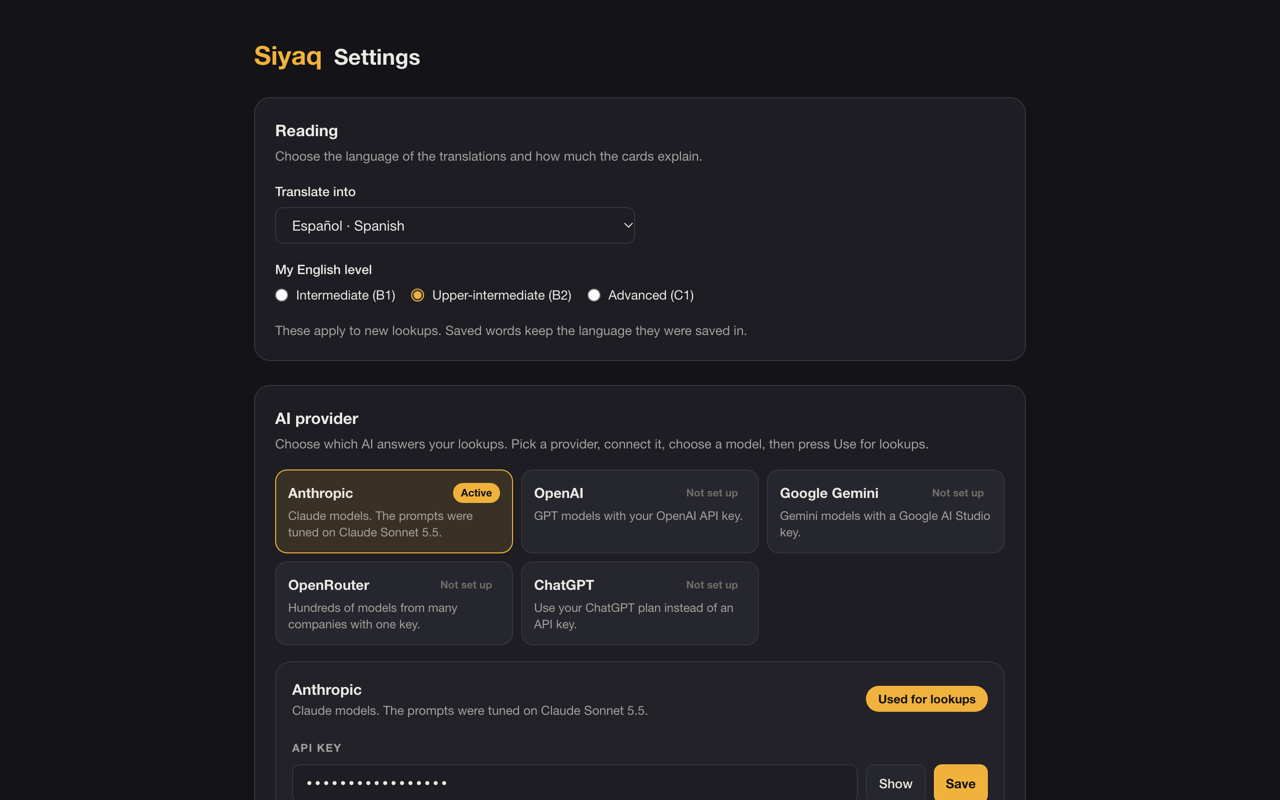
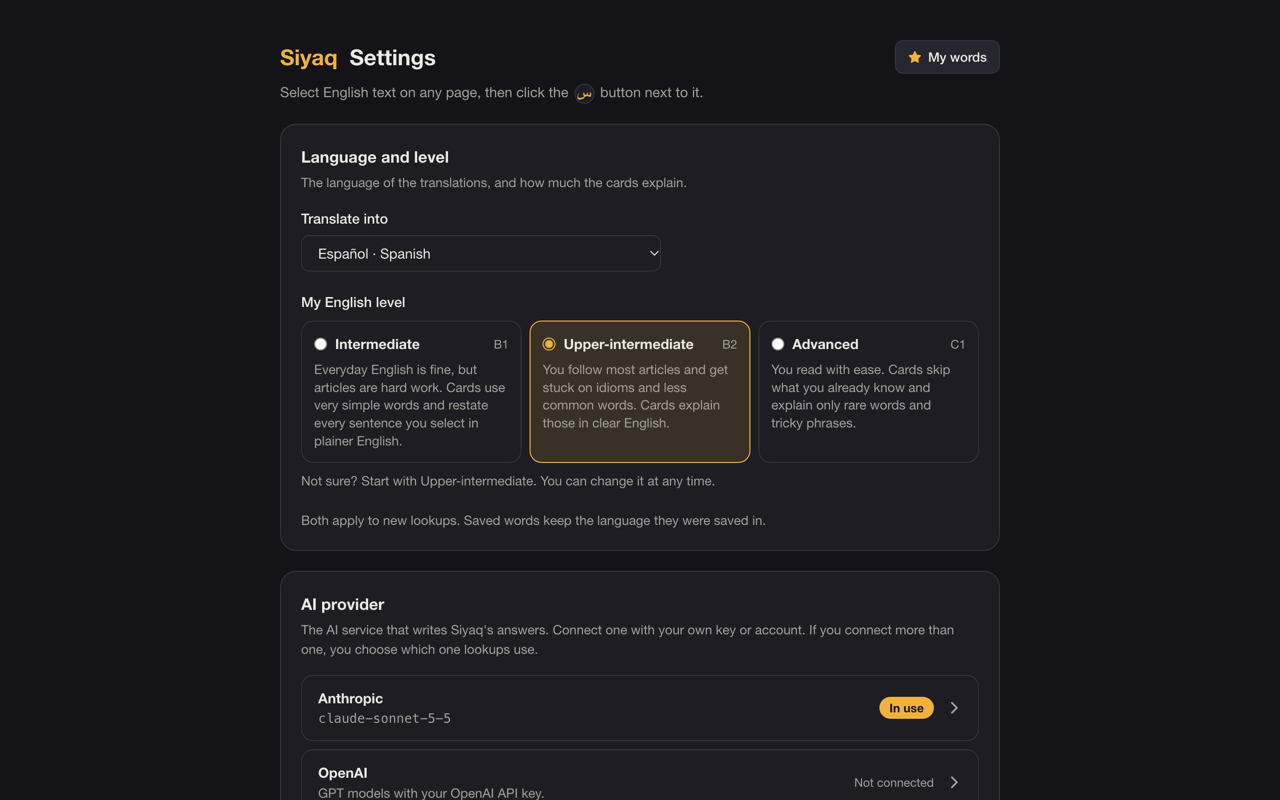
Recapture the settings screenshot and bring the README, the plan notes and the design record in line with the new settings page

diff --git a/src/lib/llm/resolve.ts b/src/lib/llm/resolve.ts
@@ -95,7 +95,7 @@ export async function resolveClient(provider: ProviderId): Promise<ResolvedClien
   }
   if (!settings.model) return { error: { code: 'no_key', message: `Choose a ${info.name} model in Siyaq settings.` } };
   if (!(await hasProviderPermission(provider))) {
-    return { error: { code: 'no_key', message: `Siyaq needs permission to reach ${info.name}. Open settings and save the provider again.` } };
+    return { error: { code: 'no_key', message: `Siyaq needs permission to reach ${info.name}. Open settings and allow access.` } };
   }
 
   const cacheKey = [provider, settings.model, settings.thinking, credential].join('\u0001');

diff --git a/docs/superpowers/specs/2026-11-15-settings-redesign-design.md b/docs/superpowers/specs/2026-11-15-settings-redesign-design.md
@@ -35,10 +35,11 @@ One column, 760 px wide at most, in this order:
 2. **Setup card**, shown only when it has something to say (see below).
 3. **Language and level.**
 4. **AI provider.**
-5. **Appearance.** One row: the label "Theme" and a Dark / Light switch.
+5. **Theme.** One row: the title and a Dark / Light switch.
 6. **Stored answers.** What the store of answers is, how much it holds, and a button to clear it. It says
    that clearing does not delete saved words.
-7. **Privacy.** The same facts as before, as a short list.
+7. **Privacy.** The promise in one sentence (nothing leaves the browser until you click the button).
+   The details are the same facts as before, as a list, folded under "What is sent, and where".
 
 Language comes before the provider because it is already filled in from the browser's language, so the
 first thing a new reader sees is their own language, chosen for them. The setup card points to the
@@ -50,9 +51,9 @@ A pure function, `setupState(views, active)`, decides what the card shows:
 
 | State | When | Card |
 |---|---|---|
-| `welcome` | No provider has a key or a sign-in | "Welcome to Siyaq": three steps. 1 Language and level, already done, showing the current choice. 2 Connect an AI provider, with a button that scrolls to that section. 3 Try it on a page. |
-| `problem` | Something is saved, but lookups cannot work | "Lookups are not working", the reason in one sentence, and a button that opens that provider's row. |
-| `ready` | The provider in use is ready | No card. If the page was not ready when it opened and became ready during this visit, a "You're ready" card explains how to use Siyaq, with a "Got it" button. |
+| `welcome` | No provider has a key or a sign-in | "Welcome to Siyaq": three steps. 1 Language and level, already done, showing the current choice. 2 Connect an AI provider, with a button that scrolls to that section and puts the cursor in the key field. 3 Try it on a page. |
+| `problem` | Something is saved, but lookups cannot work | "Lookups are not working", the reason in one sentence, and a "Fix it" button that opens that provider's row. |
+| `ready` | The provider in use is ready | No card. If the page opened in the `welcome` state and a provider was connected during this visit, the same three steps stay, titled "You're ready": step 2 is done, step 3 says how to use Siyaq and has a "Got it" button. The page scrolls back to the card so the reader sees it. |
 
 The reasons for `problem` are: no model chosen, permission to reach the provider missing, and ChatGPT
 signed in without plan usage.
@@ -102,13 +103,17 @@ in use, so a new reader sees the key field at once.
 5. If the provider in use is not ready, lookups switch to this one. Otherwise the row shows a
    "Use for lookups" button.
 
-If the provider rejects the key (`bad_key`), the key that was stored before is put back, and the row
-says the key was not accepted. For any other failure, such as no network, the key stays saved and the
-row says the test did not pass and why. To tell the two apart, `testProvider` and `listModels` answers
-gain an optional `code` field with the error code.
+If the provider says the key itself is wrong (status 401), the key that was stored before is put back,
+and the row says the key was not saved. For any other failure, such as no network or a key that is
+refused one model (403), the key stays saved and the row says the test did not pass and why. To tell the
+two apart, `testProvider` and `listModels` answers gain an optional `keyRejected` flag, set from a new
+`LlmError.keyRejected`.
 
 Steps 2 to 4 are one function, `connectWithKey`, with its storage and messaging passed in, so it is
 tested without a browser.
+
+A key is stored before it is tested. While Connect runs, the page keeps showing the providers as they
+were, so a key that ends up rejected never appears as connected and lookups never switch to it.
 
 **A connected row** shows:
 
@@ -119,8 +124,8 @@ tested without a browser.
 - "Use for lookups" when the row is ready and not in use.
 - "Advanced", folded: the thinking level and "Test connection".
 
-**ChatGPT** keeps its sign-in flow and its texts. After a successful sign-in the recommended model is
-chosen in the same way as for a key.
+**ChatGPT** keeps its sign-in flow and its texts. After a successful sign-in the model list opens by
+itself, because no model is chosen, and chooses the recommended one, as before.
 
 **A row that needs permission** shows an "Allow access" button, which the old page did not have.
 
@@ -157,11 +162,13 @@ shown in the row.
 | `src/entrypoints/options/ModelPicker.tsx` | Shown on "Change"; holds Refresh list and the model ID box |
 | `src/entrypoints/options/ReadingSection.tsx` | Level cards |
 | `src/entrypoints/options/saved-message.tsx` (new) | The shared "Saved" message |
+| `src/entrypoints/options/controls.tsx` (new) | Section, the side-by-side choice, the result box |
+| `src/entrypoints/options/usePrefs.ts` (new) | The stored preferences, kept in sync |
 | `src/entrypoints/options/useProviders.ts` | `statusLabel` moves to `status.ts` as `rowStatus` |
-| `src/lib/messaging.ts`, `src/entrypoints/background.ts` | Optional `code` on the two answers |
-| `src/lib/llm/providers.ts` | Anthropic's line |
+| `src/lib/llm/types.ts`, `src/lib/messaging.ts`, `src/entrypoints/background.ts` | `keyRejected` on the error and on the two answers |
+| `src/lib/llm/providers.ts`, `src/lib/llm/resolve.ts` | Anthropic's line; the missing-permission message points to "allow access" |
 | `src/ui/pages.css` | Keyboard outline |
-| `playground/settings-stub.ts` | Scenarios for a rejected key and for missing permission |
+| `playground/settings-stub.ts` | Scenarios for a rejected key, two providers and missing permission |
 
 ## Not in this change
 
@@ -172,7 +179,10 @@ shown in the row.
 
 ## Checks
 
-- Unit tests for `status.ts` and `connect.ts`.
-- The page viewed in the playground: new install, set up, a rejected key, missing permission, ChatGPT,
-  dark and light, wide and narrow.
+- Unit tests for `status.ts`, `connect.ts`, `LlmError.keyRejected` and the setup card.
+- The page viewed in the playground: new install, set up, a rejected key, two providers, missing
+  permission, ChatGPT, dark and light, wide and narrow, and with the keyboard.
 - Store screenshot 5 recaptured.
+
+Not checked: the page inside Chrome as a loaded extension, where the permission request and the real
+providers come into play. The playground stands in for both.

diff --git a/README.md b/README.md
@@ -26,7 +26,7 @@ reading the paragraph and the article, not just the word.
 - **Translation card** (a sentence or longer): a natural translation into your language, plainer
   English only when the original is hard, and at most three "Key expressions" that open their own
   dictionary card.
-- **Language and level.** The Reading section of the settings page sets the translation language (40
+- **Language and level.** The Language and level section of the settings page sets the translation language (40
   languages, any other by typing its name, or English only) and your English level (Intermediate B1,
   Upper-intermediate B2, Advanced C1). The level changes how simply cards explain and how much they
   explain. With English only, cards drop the translations, and a sentence card always gives a plainer
@@ -58,8 +58,9 @@ pnpm build          # -> .output/chrome-mv3
 ```
 
 Load it in Chrome: open `chrome://extensions`, enable *Developer mode*, choose *Load unpacked* and
-pick `.output/chrome-mv3`. The settings page opens on first install. Pick a provider, connect it,
-choose a model and press *Use for lookups*. Pages that were already open need a reload before the
+pick `.output/chrome-mv3`. The settings page opens on first install and shows the one step that is
+left: open a provider, paste its API key and press *Connect*. Siyaq saves the key, chooses the
+recommended model and tests the connection. Pages that were already open need a reload before the
 button appears.
 
 ## AI providers

diff --git a/docs/PLAN.md b/docs/PLAN.md
@@ -34,7 +34,7 @@ src/entrypoints/
   content/controller.ts  selection watcher, icon, card host, highlight, article extraction
   content/style.css      Tailwind + theme, injected into the shadow root as inline text
   popup/                 toolbar popup (provider status, page summary, links)
-  options/               providers (key or ChatGPT sign-in, model, thinking), reading (translation language, English level), theme, cache controls (opens in a tab)
+  options/               setup card for a new install, language and level, providers as rows (one Connect button for a key, ChatGPT sign-in, model, thinking), theme, stored answers, privacy (opens in a tab)
   words/                 "My words" page (search, open source, delete, export)
 src/lib/
   types.ts               shared data types (requests, cards, saved items, summary)
